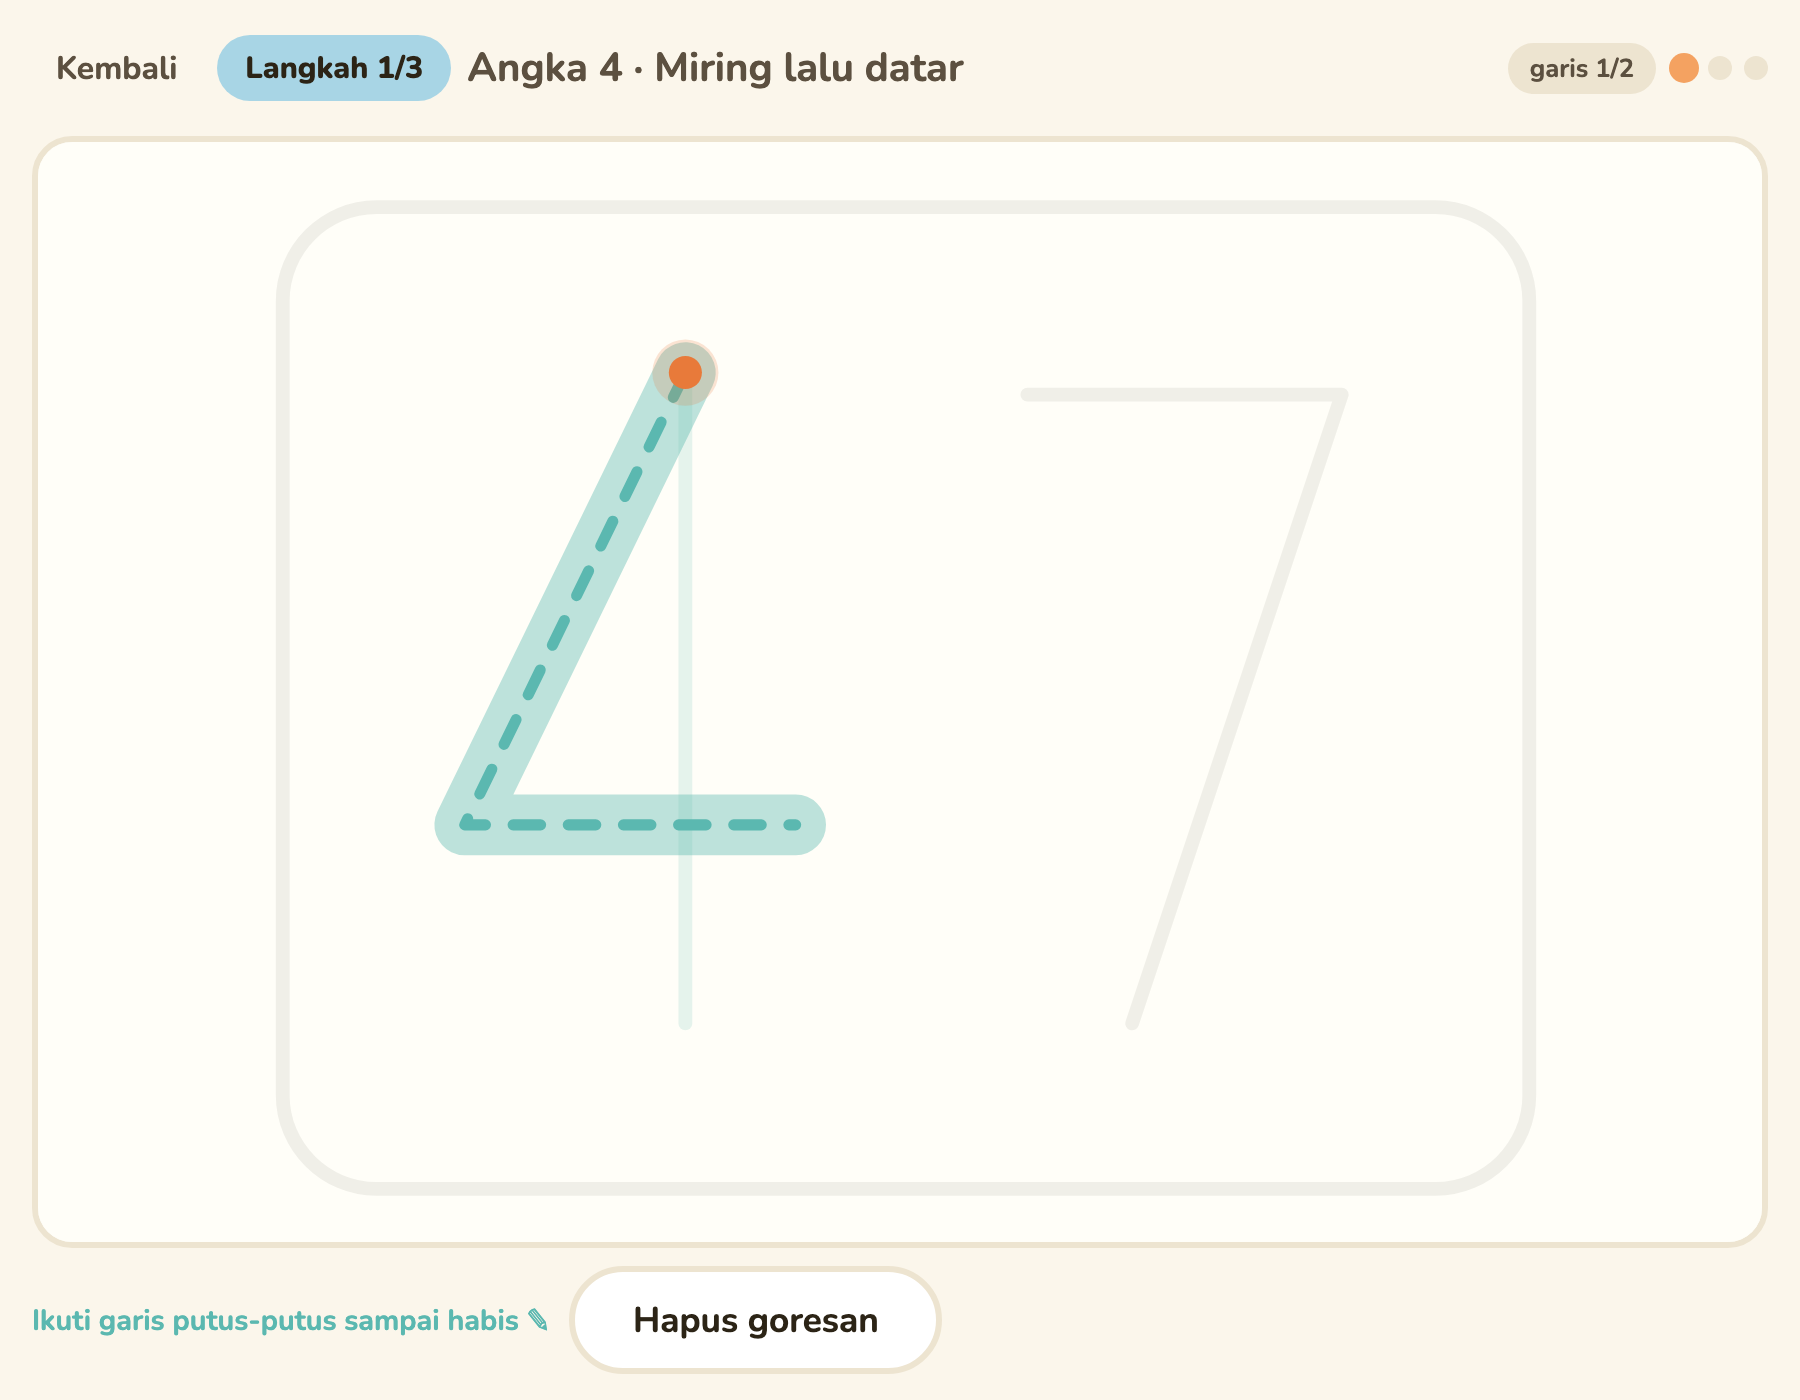
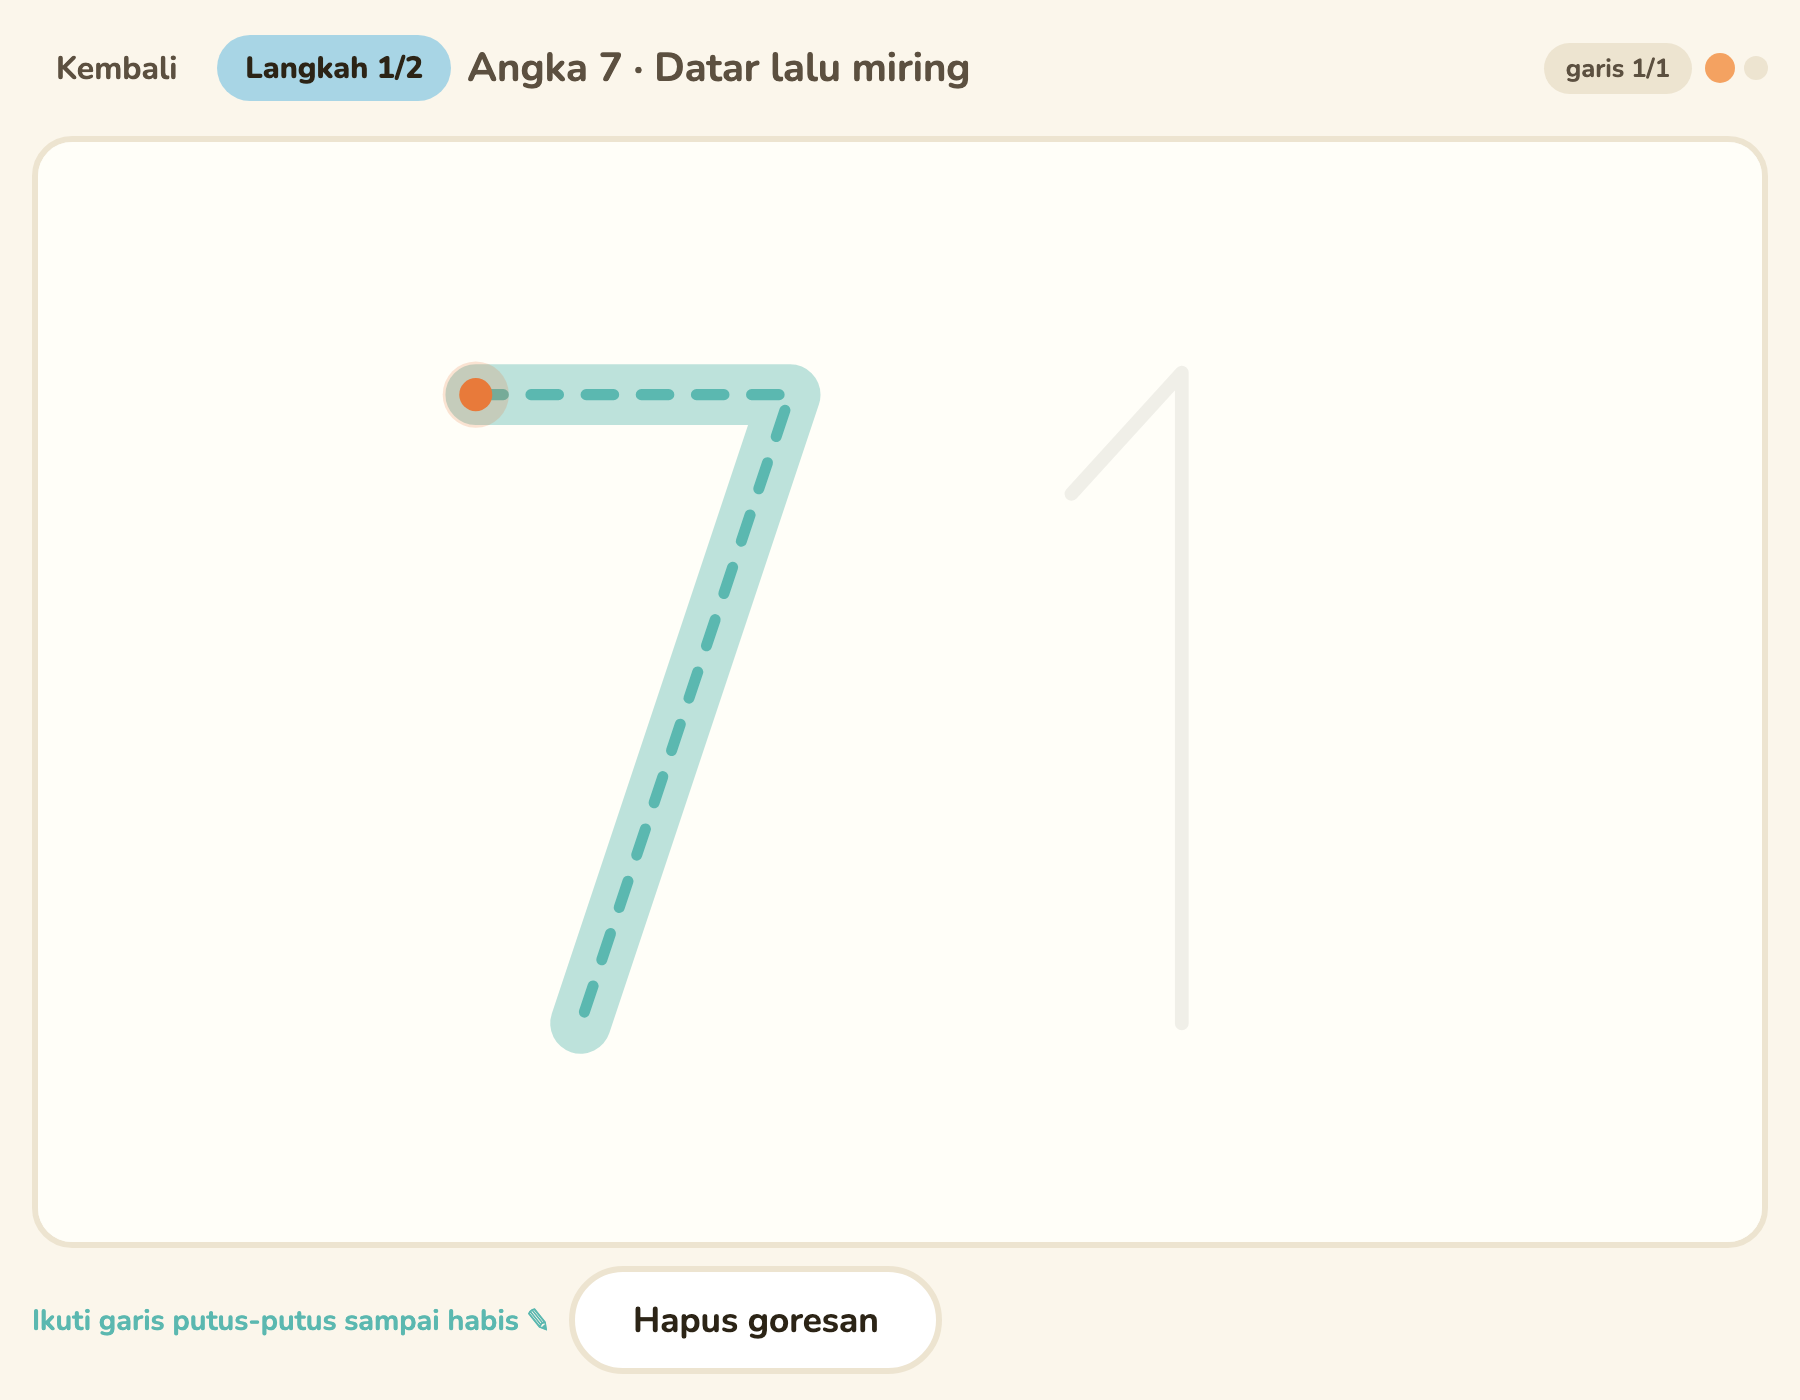
Stop making the child trace the number card's frame
Drawing a rounded rectangle teaches nothing about writing a number, and it sat
between the child and finishing each of the hundred cards. The board is now
only there to colour once the numeral is written, which also leaves it without
a black outline — it reads better as a plain coloured card behind the number.

Cards drop from 645 guided lines to 545. Checked: all of them still trace with
no failures and no console errors, and every card still reaches colouring.

Changed region(s): [[0.2178, 0.2457, 0.4667, 0.7679], [0.3111, 0.0307, 0.56, 0.0614], [0.84, 0.0307, 0.9644, 0.0921]]

diff --git a/index.html b/index.html
@@ -8,13 +8,13 @@
   <meta name="apple-mobile-web-app-status-bar-style" content="default" />
   <meta name="apple-mobile-web-app-title" content="Gambar Orang" />
   <meta name="mobile-web-app-capable" content="yes" />
-  <link rel="manifest" href="manifest.webmanifest?v=7" />
+  <link rel="manifest" href="manifest.webmanifest?v=8" />
   <meta name="description" content="Gambar orang langkah demi langkah — untuk anak TK, iPad & stylus." />
   <title>Gambar Orang — Langkah demi langkah</title>
   <link rel="preconnect" href="https://fonts.googleapis.com" />
   <link rel="preconnect" href="https://fonts.gstatic.com" crossorigin />
   <link href="https://fonts.googleapis.com/css2?family=Nunito:wght@600;700;800&display=swap" rel="stylesheet" />
-  <link rel="stylesheet" href="styles.css?v=7" />
+  <link rel="stylesheet" href="styles.css?v=8" />
 </head>
 <body>
   <button type="button" class="lang-toggle" id="lang-toggle" aria-label="Language">EN</button>
@@ -70,7 +70,7 @@
     </div>
   </section>
 
-  <script src="characters.js?v=7"></script>
-  <script src="game.js?v=7"></script>
+  <script src="characters.js?v=8"></script>
+  <script src="game.js?v=8"></script>
 </body>
 </html>

diff --git a/characters.js b/characters.js
@@ -757,9 +757,8 @@
 
   /**
    * One number to trace: each digit is its own step, so a child is walked
-   * through "4" and then "7" rather than being handed "47" whole. The board
-   * behind it is traced last and is the part that gets coloured — the numeral
-   * itself stays a pen line, which is what it is.
+   * through "4" and then "7" rather than being handed "47" whole. Only the
+   * numeral is traced; the board behind it is there to colour afterwards.
    */
   function numberCard(n) {
     const text = String(n);
@@ -783,13 +782,10 @@
       });
     }
 
+    // The board is not traced: drawing a rectangle teaches nothing, and it
+    // stood between the child and finishing every one of these hundred cards.
+    // It is still there to colour once the number is written.
     const board = roundRect(14, 12, width - 28, height - 24, 34);
-    steps.push({
-      id: "board",
-      labelId: "Papan angka",
-      labelEn: "Number board",
-      paths: [pl(board, "Bingkai", "Frame")],
-    });
 
     return {
       group: "angka" + band,

diff --git a/README.md b/README.md
@@ -25,7 +25,7 @@ You can also open `index.html` via Files app if Safari allows local file access;
 | `manifest.webmanifest` | Standalone theme |
 | `preview/` | Screenshots |
 
-111 cards in all, 645 guided lines.
+111 cards in all, 545 guided lines.
 
 ## Pictures
 
@@ -58,9 +58,10 @@ strokes a child is taught to write it with, in order and in the direction the
 pen travels: 4 is "slant then across" and then the downstroke, 5 is "down then
 belly" and then the top bar last. A digit is a step, so 47 is walked through as
 *Angka 4* then *Angka 7* rather than handed over whole. These are skeletons,
-not outlines — what is being practised is the path of the pen. The board behind
-the number is traced last and is what gets coloured; the numeral stays a pen
-line, which is what it is.
+not outlines — what is being practised is the path of the pen, so only the
+numeral is traced. The board behind it is not: drawing a rectangle teaches
+nothing and stood between the child and finishing each of the hundred cards.
+It is there to colour once the number is written.
 
 A card is 200 units wide per digit, so the tolerance (which follows the canvas)
 keeps a 1 and a 100 feeling the same under the hand.
